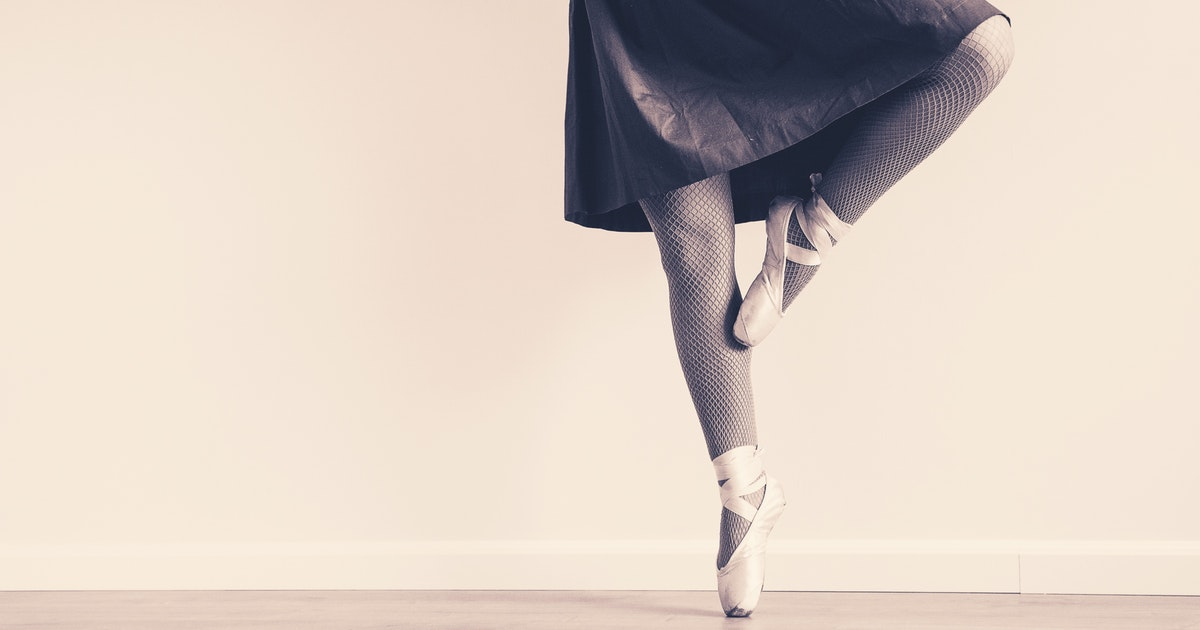
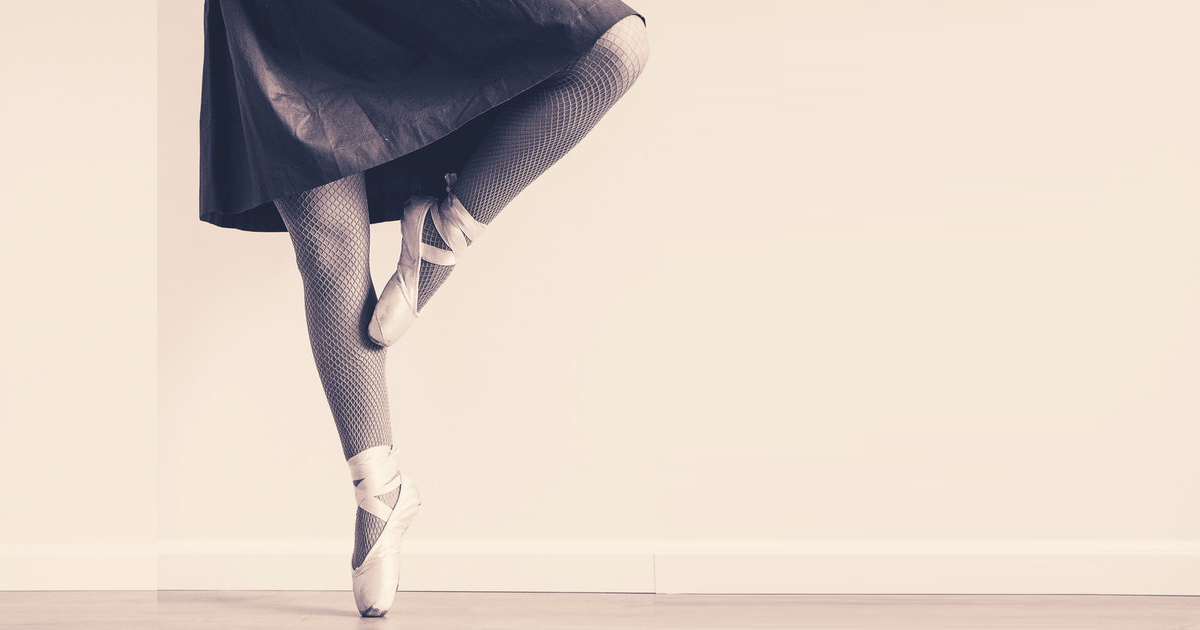
Update new blog

Changed region(s): [[0.1542, 0.0, 0.8633, 1.0]]

diff --git a/ballerina.io-blog-theme/css/blog-home-page.css b/ballerina.io-blog-theme/css/blog-home-page.css
@@ -11,7 +11,7 @@
 /*    margin: 0;*/
 margin-top: 10px;
     font-weight: 800;
-    
+
 }
 
 .cBallerina-io-Gray-row {
@@ -49,7 +49,7 @@ ul.cBlogPostContainer {
     padding: 30px;
 
     background: #ffffff;
- 
+
     display: inline-block;
 /*    min-height: 400px;*/
     float: left;
@@ -58,7 +58,7 @@ ul.cBlogPostContainer {
 ul.cBlogPostContainer li , .rst-content .section ul li, .rst-content .toctree-wrapper ul li, .wy-plain-list-disc li, article ul li {
     list-style: none;
     margin-left: 0;
-    
+
 }
 .cBlogPostContainer ul li:nth-child(2) p {
     font-weight: 800;
@@ -79,15 +79,15 @@ ul.cBlogPostContainer li , .rst-content .section ul li, .rst-content .toctree-wr
     display: inline-block;
     height: 200px;
 /*    background: red;*/
-    overflow: hidden;  
+    overflow: hidden;
     margin-bottom: 20px;
-    
+
 }
 .cBlogPostContainer .cBlogThumbnailContainer img {
-    max-width: 200% !important;
+    max-width: 168% !important;
     width: auto;
     margin-top: 0;
- 
+
 }
 
 
@@ -105,7 +105,7 @@ ul.cBlogPostContainer li , .rst-content .section ul li, .rst-content .toctree-wr
      float: left;
      margin-bottom: 30px;
      border-top: 5px solid #ffffff;
-     
+
 }
 
 
@@ -123,7 +123,7 @@ ul.cBlogPostContainer li , .rst-content .section ul li, .rst-content .toctree-wr
    font-size: 14px;
    font-weight: 400;
    margin-bottom: 5px;
-   
+
 }
 .section ul li:nth-child(3) {
     font-size: 14px;
@@ -135,13 +135,13 @@ ul.cBlogPostContainer li , .rst-content .section ul li, .rst-content .toctree-wr
 .section ul li:nth-child(4) {
  font-size: 14px;
  line-height: 20px;
- 
+
  height: 60px;
  overflow: hidden;
  padding-bottom: 20px;
  margin-bottom: 20px;
  color: #959595;
-    
+
 }
 
 .section ul li:nth-child(5) {
@@ -149,11 +149,11 @@ display: none;
 }
 
 
-/* styles for '...' */ 
+/* styles for '...' */
 .section ul li:nth-child(4) {
   overflow: hidden;
-  position: relative; 
-  max-height: 100px; 
+  position: relative;
+  max-height: 100px;
 
 }
 .section ul li:nth-child(4):before {
@@ -164,11 +164,11 @@ right: 0;
 bottom: 0;
 }
 /*.section ul li:nth-child(4):after {
-   points in the end 
+   points in the end
   content: '';
-   absolute position 
+   absolute position
   position: absolute;
-   set position to right bottom corner of text 
+   set position to right bottom corner of text
   right: 0;
   width: 1em;
 

diff --git a/docs/index.md b/docs/index.md
@@ -1,23 +1,30 @@
 <link rel="stylesheet" href="/css/blog-home-page.css"></link>
 <script src="/js/blog-home-page.js"></script>
 ---
-* <div class="cBlogThumbnailContainer"><a href="./posts/ballerina-meets-hasura.md"><img src="img/blog-images/codes-coding-computer-247791.jpg"/></a></div> [Ballerina Meets Hasura](./posts/ballerina-meets-hasura.md) 
+* <div class="cBlogThumbnailContainer"><a href="./posts/overview-of-ballerina-0.980"><img src="img/blog-images/ballet-sneaker-dress-ballet-dancer-163379.jpg"/></a></div> [Overview of Ballerina 0.980](./posts/overview-of-ballerina-0.980)
+* Kishanthan Thangarajah
+* 26 July 2018
+* Overview of new features and improvements added in ballerina 0.980.0 release
+* Published
+---
+---
+* <div class="cBlogThumbnailContainer"><a href="./posts/ballerina-meets-hasura"><img src="img/blog-images/codes-coding-computer-247791.jpg"/></a></div> [Ballerina Meets Hasura](./posts/ballerina-meets-hasura)
 * Anjana Fernando
 * 15 June 2018
 * How Hasura added Ballerina support to their platform
 * Published
 ---
 ---
-* <div class="cBlogThumbnailContainer"><a href="./posts/ballerina-a-cloud-native-programming-language.md"><img src="img/blog-images/drone-innovation-technology-57544.jpg"/></a></div> [Ballerina - A cloud native programming language for integration](./posts/ballerina-a-cloud-native-programming-language.md) 
+* <div class="cBlogThumbnailContainer"><a href="./posts/ballerina-a-cloud-native-programming-language"><img src="img/blog-images/drone-innovation-technology-57544.jpg"/></a></div> [Ballerina - A cloud native programming language for integration](./posts/ballerina-a-cloud-native-programming-language)
 * Kasun Indrasiri
 * 5 June 2018
-* Ballerina is a cloud-native programming language which aims to fill the gap between integration products and general purpose programming languages by making it easy to write programs that integrate and orchestrate across distributed microservice and endpoints in type-safe and resilient manner.
+* Ballerina is a cloud-native programming language that aims to fill the gap between integration products and general purpose programming languages by making it easy to write programs that integrate and orchestrate across distributed microservices and endpoints in a type-safe and resilient manner.
 * Published
 ---
 ---
-* <div class="cBlogThumbnailContainer"><a href="./posts/introduction-to-ballerina-0.970.md"><img src="img/blog-images/apple-black-and-white-brick-wall-169573.jpg"/></a></div> [Introduction to Ballerina 0.970 release](./posts/introduction-to-ballerina-0.970.md) 
+* <div class="cBlogThumbnailContainer"><a href="./posts/introduction-to-ballerina-0.970"><img src="img/blog-images/apple-black-and-white-brick-wall-169573.jpg"/></a></div> [Introduction to Ballerina 0.970 release](./posts/introduction-to-ballerina-0.970)
 * Sameera Jayasoma
-* 22 May 2018
+* 4 June 2018
 * Release highlights of Ballerina 0.970 release.
 * Published
 ---

diff --git a/docs/posts/overview-of-ballerina-0.980.md b/docs/posts/overview-of-ballerina-0.980.md
@@ -4,7 +4,7 @@ author: Kishanthan Thangarajah
 date: 26 July 2018
 status: Published
 abstract: Overview of new features and improvements added in ballerina 0.980.0 release
-socialmediaimage: ballet-sneaker-dress-ballet-dancer-163379.jpeg
+socialmediaimage: ballet-sneaker-dress-ballet-dancer-163379.jpg
 ---
 
 # Improvements and New Features
